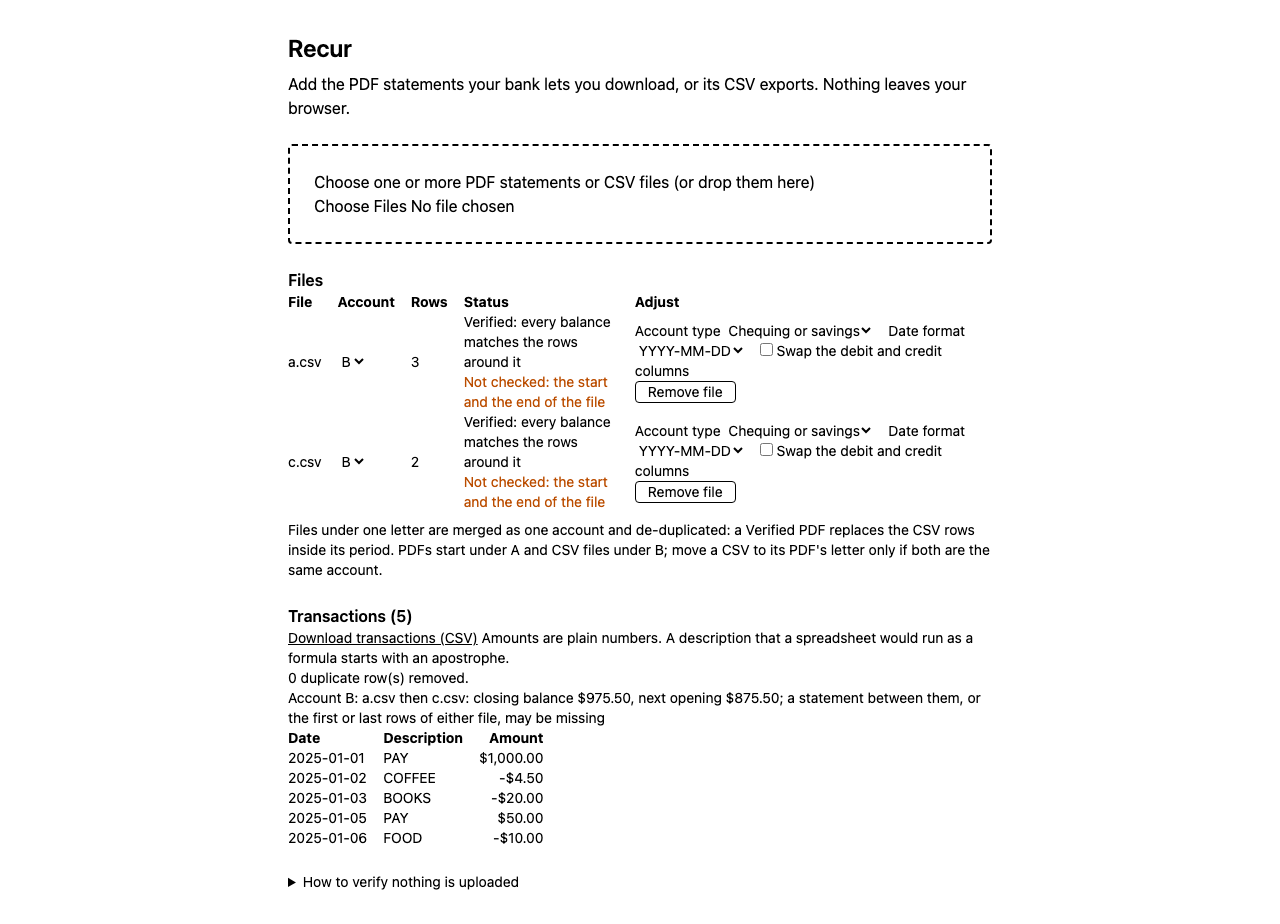
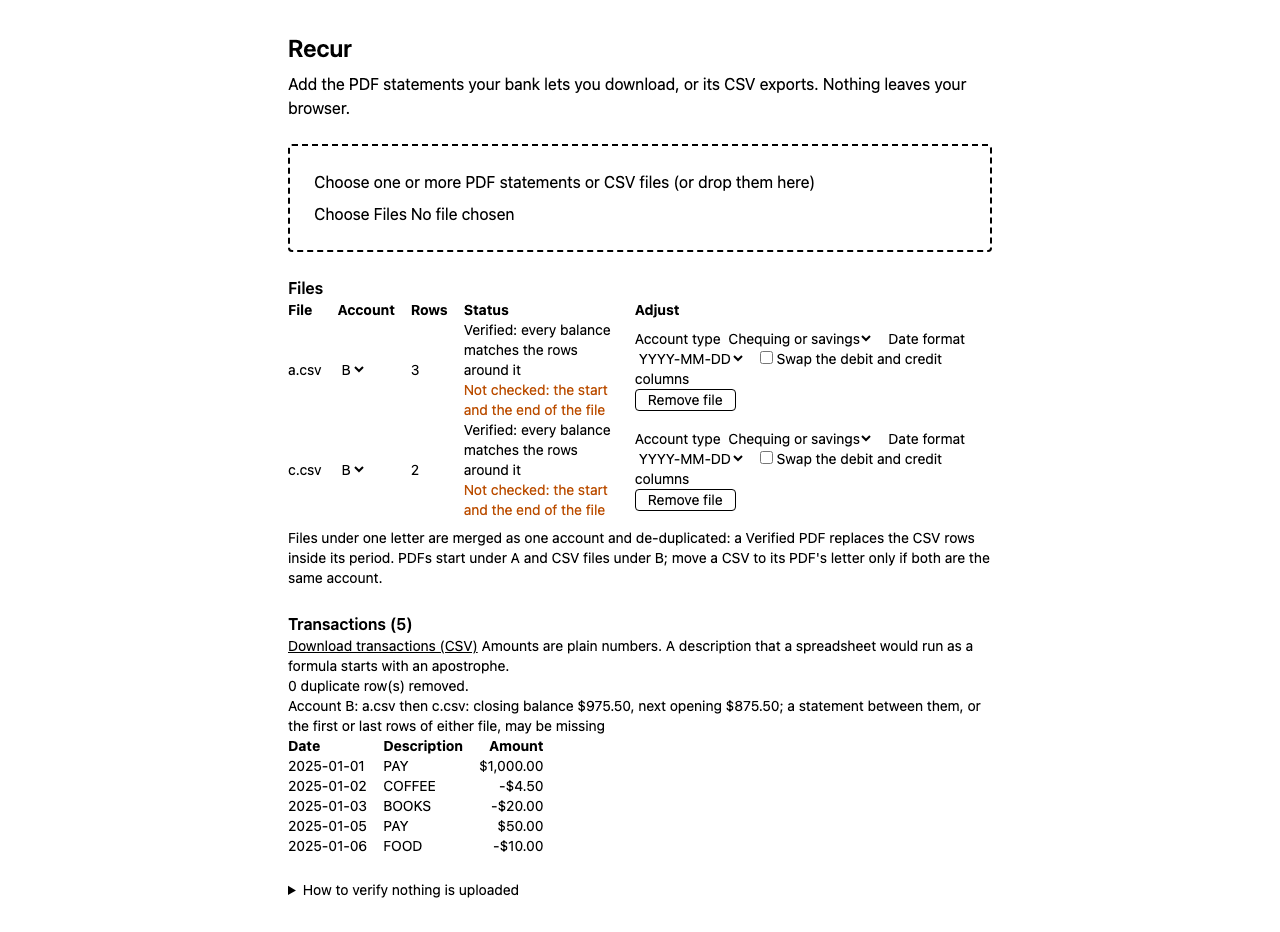
Phone-width layout and a BOM on the CSV export (M3) (#50)
* Start the CSV export with a UTF-8 byte order mark

* Keep the results state inside a 320 px screen

diff --git a/src/ui/Importer.tsx b/src/ui/Importer.tsx
@@ -304,6 +304,7 @@ export function Importer() {
         </span>
         <input
           type="file"
+          className="mt-2 block w-full"
           accept=".pdf,application/pdf,.csv,text/csv"
           multiple
           data-testid="file-input"
@@ -377,83 +378,85 @@ export function Importer() {
         <>
           <section>
             <h2 className="font-semibold">Files</h2>
-            <table className="text-sm">
-              <thead>
-                <tr>
-                  <th className="pr-4 text-left">File</th>
-                  <th className="pr-4 text-left">Account</th>
-                  <th className="pr-4 text-left">Rows</th>
-                  <th className="pr-4 text-left">Status</th>
-                  <th className="text-left">Adjust</th>
-                </tr>
-              </thead>
-              <tbody>
-                {converted
-                  .filter(({ entry }) => isReady(entry))
-                  .map(({ entry, result, status }) => (
-                    <tr key={entry.id}>
-                      <td className="pr-4">{entry.name}</td>
-                      <td className="pr-4">
-                        <select
-                          aria-label={`Account for ${entry.name}`}
-                          value={entry.account}
-                          onChange={(ev) =>
-                            setAccount(entry.id, ev.target.value)
-                          }
-                        >
-                          {ACCOUNTS.map((a) => (
-                            <option key={a}>{a}</option>
-                          ))}
-                        </select>
-                      </td>
-                      {result.ok ? (
-                        <>
-                          <td className="pr-4">
-                            {result.statement.transactions.length}
-                          </td>
-                          <td className="pr-4">
-                            {status && describeStatus(status)}
-                            {entry.input === "csv" &&
-                              status?.status === "verified" && (
-                                <div className="text-amber-700">
-                                  {describeEnds(
-                                    summary.accounts.find(
-                                      (a) => a.id === entry.account,
-                                    )?.chain.ends[result.statement.id] ?? {
-                                      start: false,
-                                      end: false,
-                                    },
-                                  )}
-                                </div>
-                              )}
-                            {result.statement.warnings.map((w) => (
-                              <div key={w} className="text-amber-700">
-                                {w}
-                              </div>
+            <div className="overflow-x-auto">
+              <table className="text-sm">
+                <thead>
+                  <tr>
+                    <th className="pr-4 text-left">File</th>
+                    <th className="pr-4 text-left">Account</th>
+                    <th className="pr-4 text-left">Rows</th>
+                    <th className="pr-4 text-left">Status</th>
+                    <th className="text-left">Adjust</th>
+                  </tr>
+                </thead>
+                <tbody>
+                  {converted
+                    .filter(({ entry }) => isReady(entry))
+                    .map(({ entry, result, status }) => (
+                      <tr key={entry.id}>
+                        <td className="pr-4">{entry.name}</td>
+                        <td className="pr-4">
+                          <select
+                            aria-label={`Account for ${entry.name}`}
+                            value={entry.account}
+                            onChange={(ev) =>
+                              setAccount(entry.id, ev.target.value)
+                            }
+                          >
+                            {ACCOUNTS.map((a) => (
+                              <option key={a}>{a}</option>
                             ))}
-                          </td>
-                        </>
-                      ) : (
-                        <td colSpan={2} className="pr-4 text-red-700">
-                          Cannot read this file: {result.reason}
+                          </select>
                         </td>
-                      )}
-                      <td>
-                        {entry.input === "csv" && (
-                          <Controls e={entry} update={update} />
+                        {result.ok ? (
+                          <>
+                            <td className="pr-4">
+                              {result.statement.transactions.length}
+                            </td>
+                            <td className="pr-4">
+                              {status && describeStatus(status)}
+                              {entry.input === "csv" &&
+                                status?.status === "verified" && (
+                                  <div className="text-amber-700">
+                                    {describeEnds(
+                                      summary.accounts.find(
+                                        (a) => a.id === entry.account,
+                                      )?.chain.ends[result.statement.id] ?? {
+                                        start: false,
+                                        end: false,
+                                      },
+                                    )}
+                                  </div>
+                                )}
+                              {result.statement.warnings.map((w) => (
+                                <div key={w} className="text-amber-700">
+                                  {w}
+                                </div>
+                              ))}
+                            </td>
+                          </>
+                        ) : (
+                          <td colSpan={2} className="pr-4 text-red-700">
+                            Cannot read this file: {result.reason}
+                          </td>
                         )}
-                        <button
-                          type="button"
-                          className="rounded border px-3"
-                          onClick={() => remove(entry.id)}
-                        >
-                          Remove file
-                        </button>
-                      </td>
-                    </tr>
-                  ))}
-              </tbody>
-            </table>
+                        <td>
+                          {entry.input === "csv" && (
+                            <Controls e={entry} update={update} />
+                          )}
+                          <button
+                            type="button"
+                            className="rounded border px-3"
+                            onClick={() => remove(entry.id)}
+                          >
+                            Remove file
+                          </button>
+                        </td>
+                      </tr>
+                    ))}
+                </tbody>
+              </table>
+            </div>
             <p className="mt-2 text-sm">
               Files under one letter are merged as one account and
               de-duplicated: a Verified PDF replaces the CSV rows inside its
@@ -500,24 +503,26 @@ export function Importer() {
                   )),
               )}
             </ul>
-            <table className="text-sm">
-              <thead>
-                <tr>
-                  <th className="pr-4 text-left">Date</th>
-                  <th className="pr-4 text-left">Description</th>
-                  <th className="text-right">Amount</th>
-                </tr>
-              </thead>
-              <tbody>
-                {summary.rows.map(({ transaction: t }) => (
-                  <tr key={t.id}>
-                    <td className="pr-4">{t.date}</td>
-                    <td className="pr-4">{t.description}</td>
-                    <td className="text-right">{formatCents(t.amount)}</td>
+            <div className="overflow-x-auto">
+              <table className="text-sm">
+                <thead>
+                  <tr>
+                    <th className="pr-4 text-left">Date</th>
+                    <th className="pr-4 text-left">Description</th>
+                    <th className="text-right">Amount</th>
                   </tr>
-                ))}
-              </tbody>
-            </table>
+                </thead>
+                <tbody>
+                  {summary.rows.map(({ transaction: t }) => (
+                    <tr key={t.id}>
+                      <td className="pr-4">{t.date}</td>
+                      <td className="pr-4">{t.description}</td>
+                      <td className="text-right">{formatCents(t.amount)}</td>
+                    </tr>
+                  ))}
+                </tbody>
+              </table>
+            </div>
           </section>
         </>
       )}

diff --git a/e2e/a11y.spec.ts b/e2e/a11y.spec.ts
@@ -73,3 +73,23 @@ test("the scan itself catches a violation (control)", async ({ page }) => {
   const { violations } = await new AxeBuilder({ page }).analyze();
   expect(violations.map((v) => v.id)).toContain("image-alt");
 });
+
+test("results state does not scroll sideways at phone width (320 px)", async ({
+  page,
+}) => {
+  await page.setViewportSize({ width: 320, height: 640 });
+  await page.goto("/");
+  await page.getByTestId("file-input").setInputFiles([
+    { name: "a.csv", mimeType: "text/csv", buffer: Buffer.from(withBalance) },
+    { name: "td.pdf", mimeType: "application/pdf", buffer: Buffer.from(tdPdf) },
+  ]);
+  await expect(page.getByText(/^Verified:/).first()).toBeVisible();
+  const overflow = await page.evaluate(
+    () => document.documentElement.scrollWidth - window.innerWidth,
+  );
+  expect(overflow).toBeLessThanOrEqual(0);
+  await page.screenshot({
+    path: "docs/evidence/phone-width.png",
+    fullPage: true,
+  });
+});

diff --git a/src/core/exportCsv.ts b/src/core/exportCsv.ts
@@ -34,9 +34,10 @@ const decimal = (c: Cents): string => {
 /**
  * Merged ledger -> CSV text: Date, Description, Amount (signed, negative = money out), Balance
  * (blank when the statement printed none), Account. Text fields are neutralised; PapaParse quotes.
+ * Starts with a UTF-8 byte order mark so Excel reads accented descriptions correctly; `readCsv` strips it.
  */
 export function exportLedgerCsv(rows: readonly ExportRow[]): string {
-  return Papa.unparse({
+  return `\uFEFF${Papa.unparse({
     fields: ["Date", "Description", "Amount", "Balance", "Account"],
     data: rows.map(({ account, transaction: t }) => [
       t.date,
@@ -45,5 +46,5 @@ export function exportLedgerCsv(rows: readonly ExportRow[]): string {
       t.balanceAfter === undefined ? "" : decimal(t.balanceAfter),
       neutralise(account),
     ]),
-  });
+  })}`;
 }

diff --git a/e2e/export.spec.ts b/e2e/export.spec.ts
@@ -42,7 +42,7 @@ test("the merged ledger downloads as a CSV with formulas neutralised and sends n
   expect(download.suggestedFilename()).toBe("recur-transactions.csv");
   const path = await download.path();
   expect((await readFile(path, "utf8")).split("\r\n")).toEqual([
-    "Date,Description,Amount,Balance,Account",
+    "\uFEFFDate,Description,Amount,Balance,Account",
     "2025-01-01,PAY,1000.00,1000.00,B",
     '2025-01-02,"\'=HYPERLINK(""http://x"")",-4.50,995.50,B',
     "2025-01-03,BOOKS,-20.00,975.50,B",

diff --git a/src/core/exportCsv.test.ts b/src/core/exportCsv.test.ts
@@ -65,7 +65,7 @@ test("writes a header and plain numbers, leaving negative amounts numeric", () =
     { account: "A", transaction: tx("2026-01-06", "PAYROLL", 200000) },
   ]);
   expect(csv.split("\r\n")).toEqual([
-    "Date,Description,Amount,Balance,Account",
+    "\uFEFFDate,Description,Amount,Balance,Account",
     "2026-01-05,COFFEE,-12.50,987.50,A",
     "2026-01-06,PAYROLL,2000.00,,A",
   ]);

diff --git a/docs/PROGRESS.md b/docs/PROGRESS.md
@@ -49,7 +49,7 @@ Living document. Update it at the end of every working session. Never record sta
 **Backlog (not scheduled):**
 
 - PDF reader recovery (review of PR #48): if the worker script fails to load, every PDF waits forever instead of failing with a reason (pdf.js listens for no `error` event on a port); if the module-load `import()` of pdf.js rejects, the rejection is unhandled and cached until reload. Rare (the network drops between the HTML and the worker); fix with an `error` listener raced against `task.promise`, and a retry of the import.
-- CSV export has no UTF-8 BOM, so Excel may garble accented merchant names (security review of PR #47). `readCsv` already strips a BOM, so adding one keeps AC-8. Do it with the summary download (M3 task 7).
+
 - A card export with labelled Debit/Credit columns and a balance is "ready" without asking, and the account type defaults to chequing, so it can show a false "Mismatch" until the user switches the type. Default the type from the balance direction, or ask (found in the task 11 re-review).
 - `mapColumns` returns low confidence for any extra text column (a card number, a memo) and in one probe picked the card column as the description. `fixture:dump --description` works around it for fixtures; the UI has no way to pick the description column yet. See what the real CIBC export looks like first.
 - `reconcile` reports `mismatch` rather than `unverifiable` when an export lists same-day rows against its overall date direction; check against the real TD and CIBC fixtures.
@@ -163,6 +163,13 @@ Queued by the autonomous workflow. Claude does not attempt these.
 ## Session log
 
 Newest first. One entry per session: date, what changed, what was verified, what is next.
+
+### 2026-11-25 — M3: phone width and a BOM on the CSV export
+
+- At 320 px the results state scrolled sideways by 138 px, then 71 px: the two tables and the native file input were wider than the screen. The tables now scroll inside their own container and the input is `w-full`. `e2e/a11y.spec.ts` asserts no page-level horizontal scroll at 320 px.
+- The CSV export starts with a UTF-8 byte order mark (security review note on PR #47); `readCsv` already strips it, so the AC-8 round trip is unchanged. Removed the backlog line for it.
+- Previous PR (#49): one review round (APPROVE, no findings), CI green on the first run. The merge call was denied by the auto-mode classifier once; the merge had gone through anyway.
+- Verified: typecheck, Biome, `npm test`, build, `npx playwright test` (18 passed, outside the sandbox). Not verified: any real statement, keyboard order and focus styles by hand.
 
 ### 2026-11-25 — M3 task 11 (part): axe scan
 
